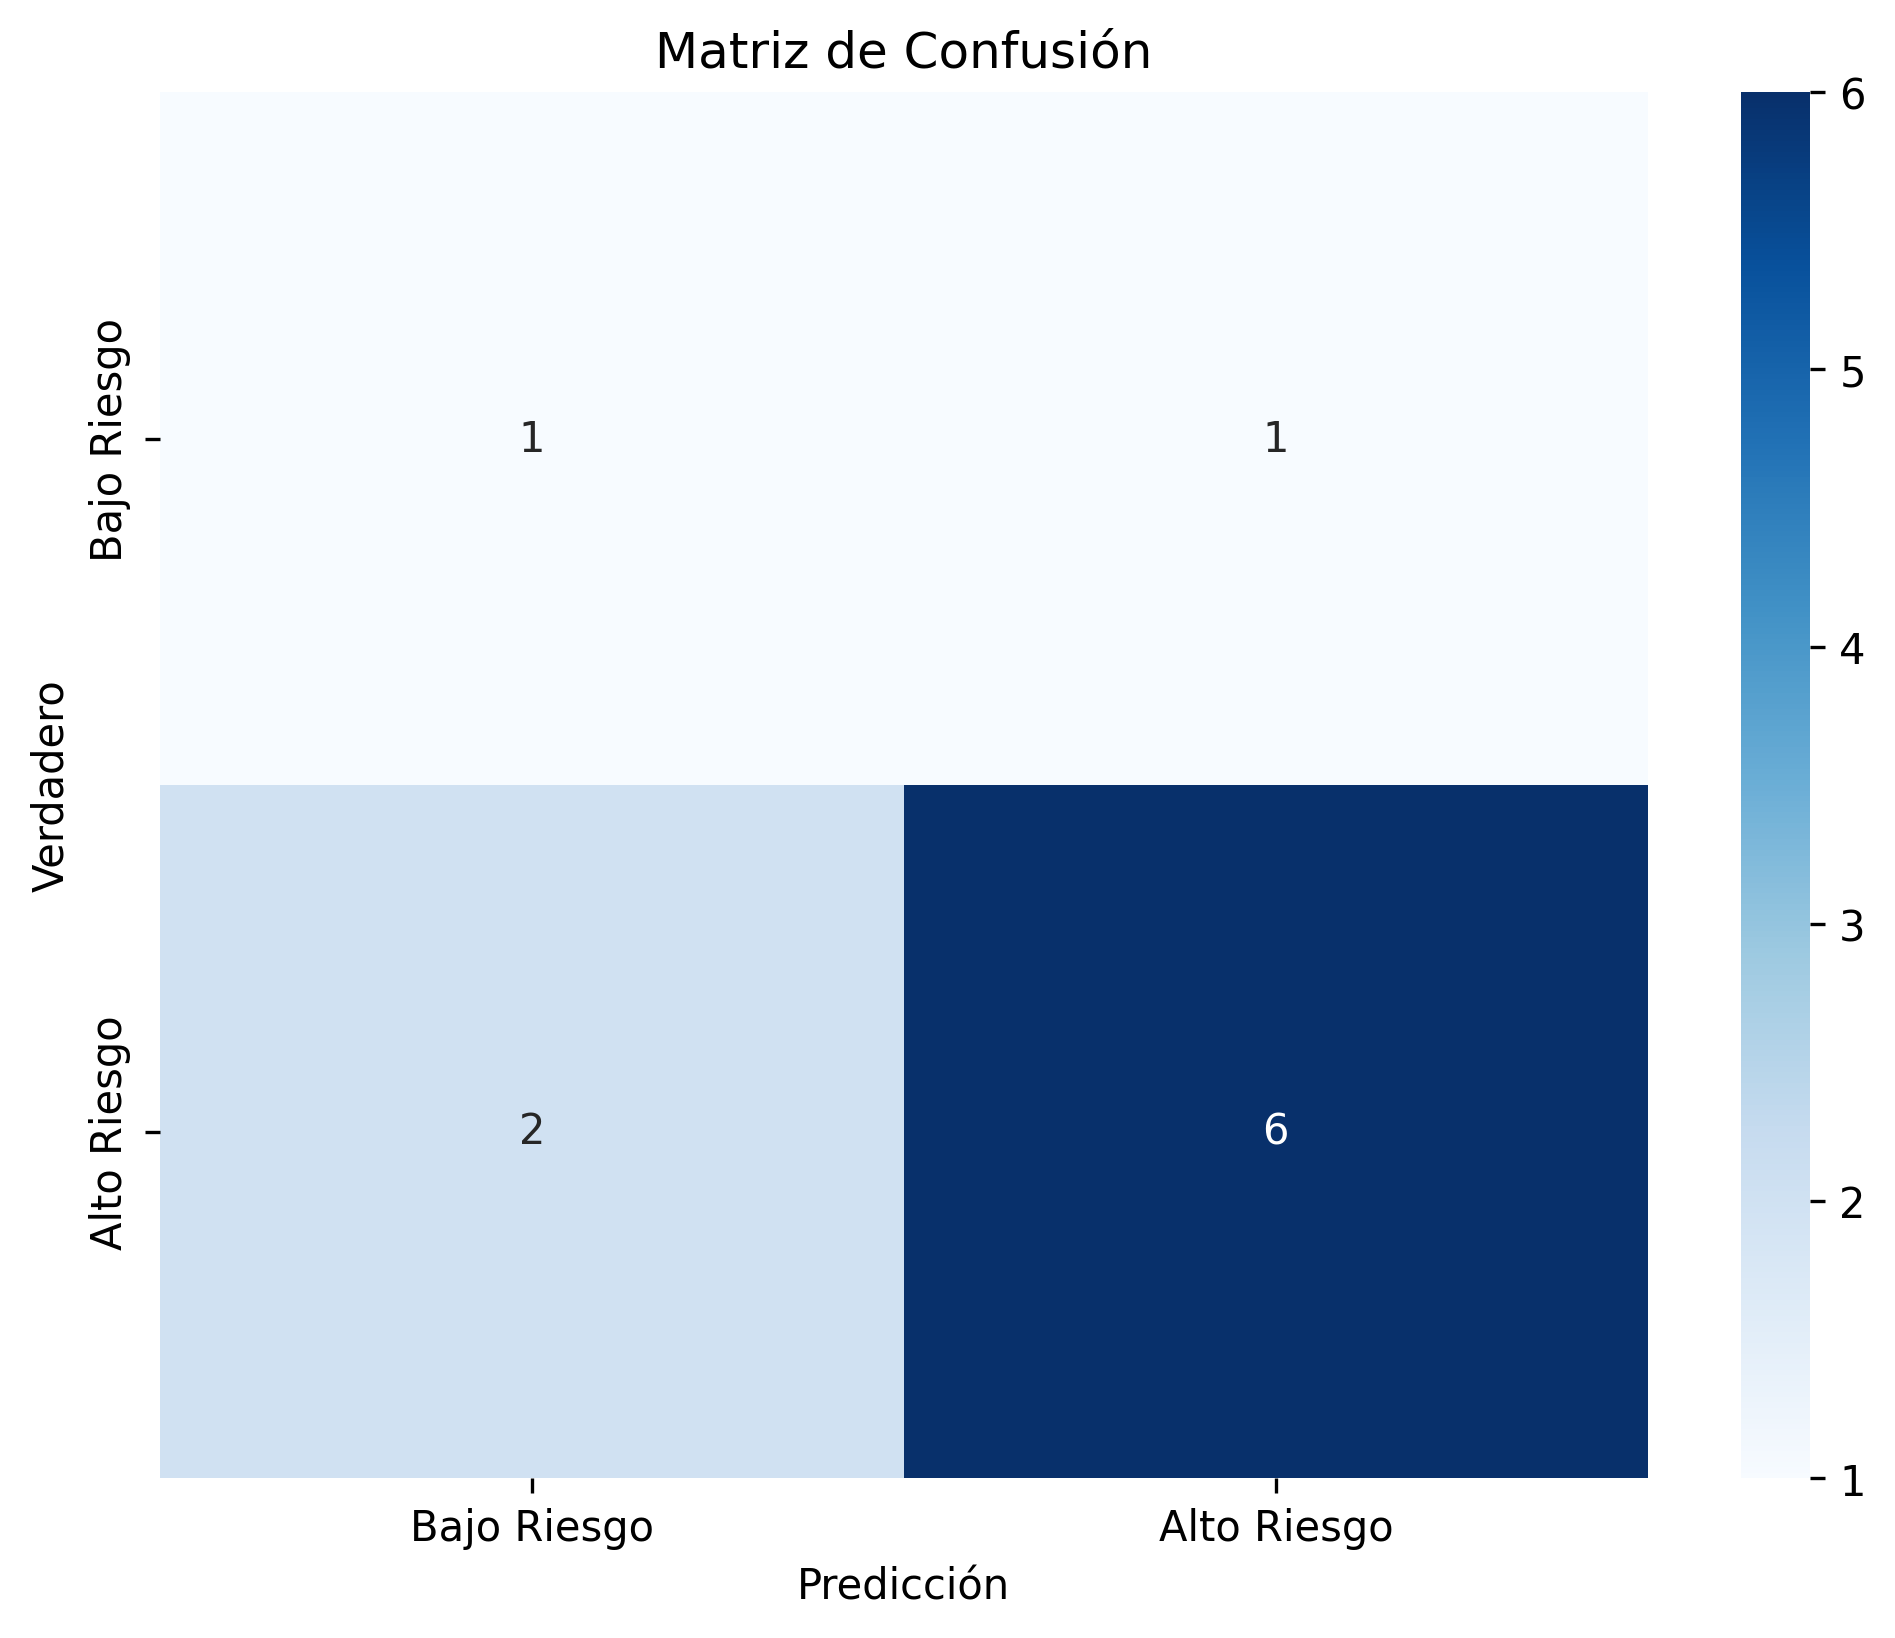
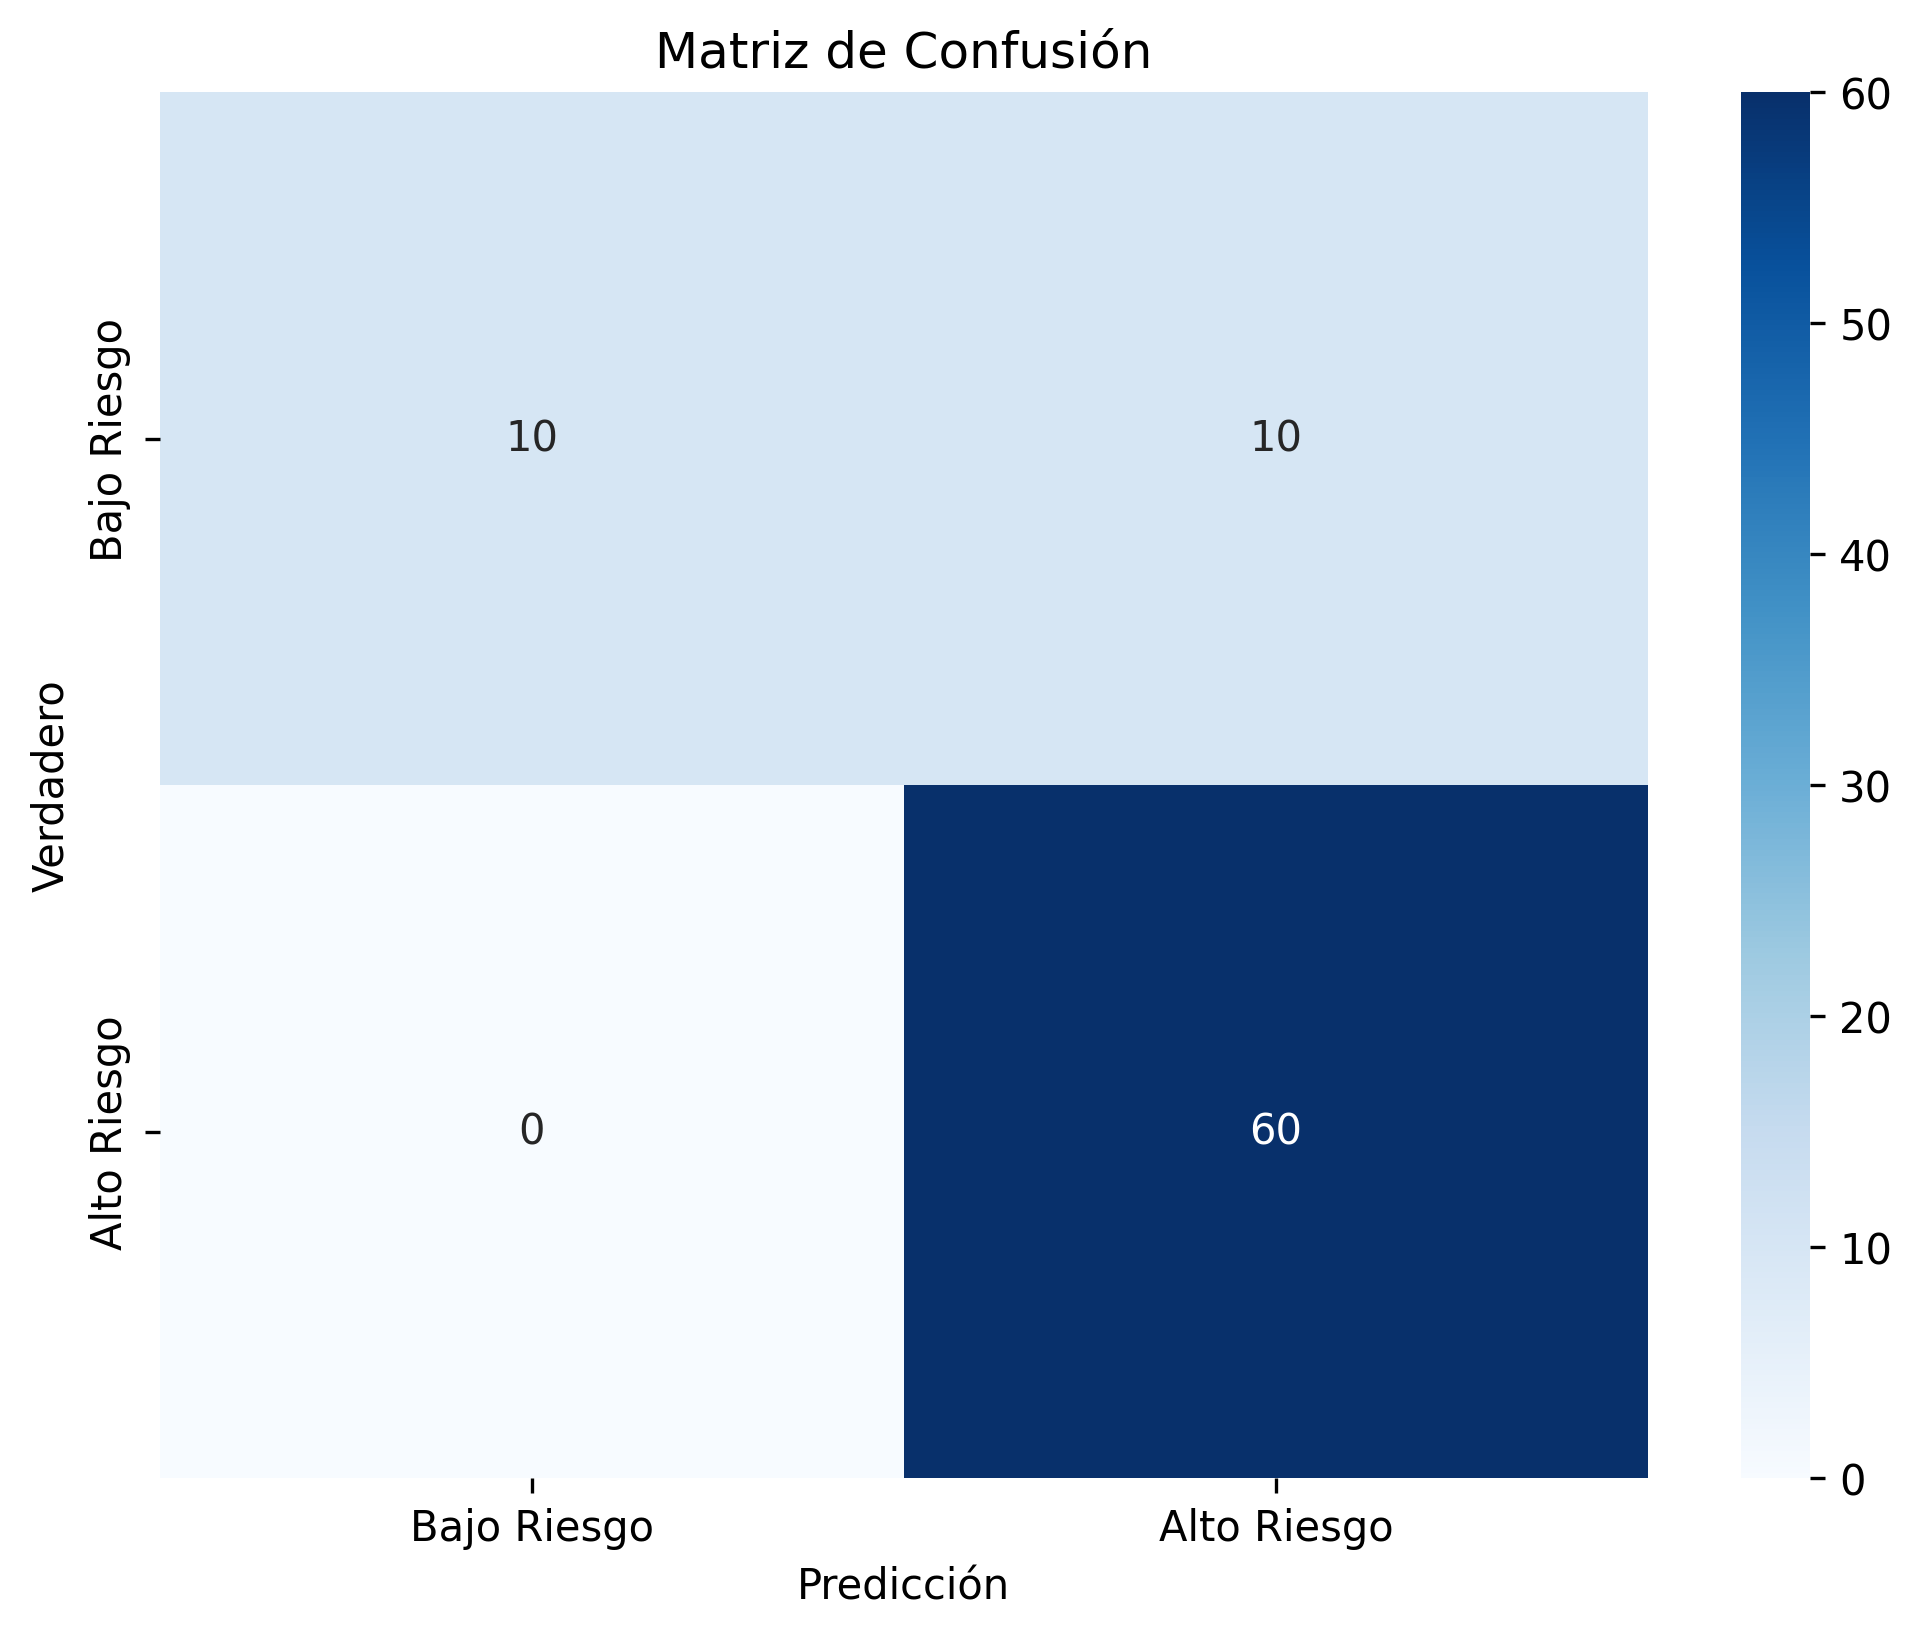
correccion de errores y curva ROC

diff --git a/templates/graficos.html b/templates/graficos.html
@@ -5,6 +5,7 @@
     <meta name="viewport" content="width=device-width, initial-scale=1.0">
     <title>Análisis de Riesgo - Matriz de Confusión</title>
     <link rel="stylesheet" href="{{ url_for('static', filename='style.css') }}">
+    <link rel="stylesheet" href="https://fonts.googleapis.com/css2?family=Material+Symbols+Outlined:opsz,wght,FILL,GRAD@24,400,0,0" />
 </head>
 <body>
     <header>
@@ -15,43 +16,69 @@
     <div class="container">
         <div class="matrix-container">
             <h2>Matriz de Confusión</h2>
-            <p>Visualización del desempeño del modelo de clasificación:</p>
-
-            <!-- Imagen de la matriz con ID 'matrixImage' para manipularla con JavaScript -->
             <img id="matrixImage" class="matrix-img" src="{{ url_for('imagenes_files', filename='matriz_riesgos.png') }}" alt="Matriz">
-            
-            <!-- Controles de zoom con más separación -->
             <div class="zoom-controls">
-                <button onclick="zoomIn()" class="zoom-btn">+ Zoom</button>
-                <button onclick="zoomOut()" class="zoom-btn">- Zoom</button>
-                <button onclick="resetZoom()" class="zoom-btn">Reset</button>
+                <span class="material-symbols-outlined upload-button" onclick="zoomIn(0)">zoom_in</span>
+                <span class="material-symbols-outlined upload-button" onclick="zoomOut(0)">zoom_out</span>
+                <span class="material-symbols-outlined upload-button" onclick="resetZoom(0)">recenter</span>
             </div>
             
-            <a href="../resultados/matriz_riesgos.png" download="matriz_riesgos.png" class="download-btn">
+            <a href="../TP1-pp1/imagenes/matriz_riesgos.png" download="matriz_riesgos.png" class="download-btn">
                 Descargar Matriz
+            </a>
+        
+        </div>
+        <div class="curva-container">
+            <h2>Curva ROC</h2>
+
+            <img id="curvaImage" class="matrix-img" src="{{ url_for('imagenes_files', filename='curva_roc.png') }}" alt="Curva">
+            <div class="zoom-controls">
+                <span class="material-symbols-outlined upload-button" onclick="zoomIn(1)">zoom_in</span>
+                <span class="material-symbols-outlined upload-button" onclick="zoomOut(1)">zoom_out</span>
+                <span class="material-symbols-outlined upload-button" onclick="resetZoom(1)">recenter</span>
+            </div>
+            
+            <a href="../TP1-pp1/imagenes/curva_roc.png" download="curva_roc.png" class="download-btn">
+                Descargar Curva
             </a>
         </div>
     </div>
 
     <script>
-        let currentScale = 1;
-        const matrixImage = document.getElementById('matrixImage'); 
+        let currentScaleM = 1;
+        let currentScaleC = 1;
+        const matrixImage = document.getElementById('matrixImage');
+        const curvaImage = document.getElementById('curvaImage');
     
-        function zoomIn() {
-            currentScale += 0.2;
-            matrixImage.style.transform = `scale(${currentScale})`;
-        }
-    
-        function zoomOut() {
-            if (currentScale > 0.6) {
-                currentScale -= 0.2;
-                matrixImage.style.transform = `scale(${currentScale})`;
+        function zoomIn(i) {
+            if (i == 0) {
+                currentScaleM += 0.2;
+                matrixImage.style.transform = `scale(${currentScaleM})`;
+            } else {
+                currentScaleC += 0.2;
+                curvaImage.style.transform = `scale(${currentScaleC})`;
             }
         }
     
-        function resetZoom() {
-            currentScale = 1;
-            matrixImage.style.transform = 'scale(1)';
+        function zoomOut(i) {
+            if (currentScaleM > 0.6 && i == 0) {
+                currentScaleM -= 0.2;
+                matrixImage.style.transform = `scale(${currentScaleM})`;
+            }
+            if (currentScaleC > 0.6 && i == 1) {
+                currentScaleC -= 0.2;
+                curvaImage.style.transform = `scale(${currentScaleC})`;
+            }
+        }
+    
+        function resetZoom(i) {
+            if (i == 0) {
+                currentScaleM = 1;
+                matrixImage.style.transform = 'scale(1)';
+            } else {
+                currentScaleC = 1;
+                curvaImage.style.transform = 'scale(1)';
+            }
         }
     </script>
 

diff --git a/templates/inicio.html b/templates/inicio.html
@@ -52,22 +52,18 @@
         function cambiarModo() {
             const body = document.body;
             const modoOscuro = body.classList.contains("dark-mode");
-    
-            // Alternar modo
+
             body.classList.toggle("dark-mode", !modoOscuro);
-            localStorage.setItem("modo_oscuro", !modoOscuro);  // Guardar en localStorage
-    
-            // Cambiar iconos de sol y luna
+            localStorage.setItem("modo_oscuro", !modoOscuro);
+
             document.querySelector(".sun").style.display = modoOscuro ? "block" : "none";
             document.querySelector(".moon").style.display = modoOscuro ? "none" : "block";
         }
-    
-        // Aplicar el modo oscuro si está guardado en localStorage
+
         document.addEventListener("DOMContentLoaded", function() {
             const modoOscuro = localStorage.getItem("modo_oscuro") === "true";
             document.body.classList.toggle("dark-mode", modoOscuro);
-    
-            // Configurar icono correcto
+
             document.querySelector(".sun").style.display = modoOscuro ? "none" : "block";
             document.querySelector(".moon").style.display = modoOscuro ? "block" : "none";
         });

diff --git a/templates/index_regresion.html b/templates/index_regresion.html
@@ -79,6 +79,10 @@
                     <a href="{{ url_for('resultados') }}">
                         <span class="material-symbols-outlined upload-button" onclick="generarCSV()">pageview</span>
                     </a>
+
+                    <a href="/graficos">
+                        <span class="material-symbols-outlined upload-button">analytics</span>
+                    </a>   
                 </div>
             </div>
         </div>

diff --git a/static/style.css b/static/style.css
@@ -822,7 +822,7 @@ header {
     transition: transform 0.3s ease-in-out;
     border-radius: 10px;
     border: 3px solid #2c3e50;
-    margin-bottom: 20px; /* Espacio inferior */
+    margin-bottom: 20px;
     animation: zoomIn 1s ease-out;
 }
 

diff --git a/templates/resultados.html b/templates/resultados.html
@@ -78,7 +78,6 @@
         }
 
         function cerrarDetalles() {
-            // Ocultar la barra lateral
             const barraLateral = document.getElementById('barra-lateral');
             barraLateral.style.width = '0';
         }

diff --git a/generar_graficos.py b/generar_graficos.py
@@ -1,5 +1,5 @@
 import matplotlib.pyplot as plt
-from sklearn.metrics import confusion_matrix, ConfusionMatrixDisplay
+from sklearn.metrics import confusion_matrix, roc_curve, auc
 import os
 import seaborn as sns
 
@@ -20,10 +20,27 @@ def guardar_matriz_confusion(y_pred, x_test, y_test, clases=None, nombre_archivo
     plt.ylabel('Verdadero')
     plt.xlabel('Predicción')
 
-    ruta_completa = os.path.join('imagenes', nombre_archivo)
+    ruta_completa = os.path.join('TP1-pp1/imagenes', nombre_archivo)
     plt.savefig(ruta_completa, bbox_inches='tight', dpi=300)
     plt.close()
     
     print(f"Matriz de confusión guardada en '{ruta_completa}'")
     
     return matriz
+
+def guardar_curva_roc(y_pred, y_test, nombre_archivo='curva_roc.png'):
+    fpr, tpr, thresholds = roc_curve(y_test, y_pred)
+    roc_auc = auc(fpr, tpr)
+
+    plt.figure(figsize=(8, 6))
+    plt.plot(fpr, tpr, color='darkorange', lw=2, label=f'Curva ROC (AUC = {roc_auc:.2f})')
+    plt.plot([0, 1], [0, 1], color='navy', lw=2, linestyle='--')
+    plt.xlim([0.0, 1.0])
+    plt.ylim([0.0, 1.05])
+    plt.xlabel('Tasa de Falsos Positivos')
+    plt.ylabel('Tasa de Verdaderos Positivos')
+    plt.title('Curva ROC')
+    plt.legend(loc="lower right")
+    ruta_completa = os.path.join('TP1-pp1/imagenes', nombre_archivo)
+    plt.savefig(ruta_completa, bbox_inches='tight')
+    plt.close()

diff --git a/app.py b/app.py
@@ -14,7 +14,7 @@ from datetime import datetime
 import json
 import csv
 import hashlib
-from generar_graficos import guardar_matriz_confusion
+from generar_graficos import guardar_matriz_confusion, guardar_curva_roc
 
 app = Flask(__name__)
 
@@ -272,6 +272,8 @@ def predecir_modelo_arbol():
     guardar_matriz_confusion(prediccion, x_test_a, y_test_a, 
                          clases=['Bajo Riesgo', 'Alto Riesgo'],
                          nombre_archivo='matriz_riesgos.png')
+    
+    guardar_curva_roc(prediccion, y_test_a, nombre_archivo='curva_roc.png')
 
     return jsonify({
         "precision": precision,
@@ -339,9 +341,11 @@ def predecir_modelo_regresion():
     memoria = recall_score(y_test_r, prediccion, average='binary')
     f1 = f1_score(y_test_r, prediccion, average='binary')
     
-    guardar_matriz_confusion(prediccion, x_test_a, y_test_a, 
+    guardar_matriz_confusion(prediccion, x_test_r, y_test_r, 
                          clases=['Bajo Riesgo', 'Alto Riesgo'],
                          nombre_archivo='matriz_riesgos.png')
+    
+    guardar_curva_roc(prediccion, y_test_r, nombre_archivo='curva_roc.png')
 
     return jsonify({
         "precision": precision,

diff --git a/generar_csv.py b/generar_csv.py
@@ -2,7 +2,7 @@ import pandas as pd
 import random
 import os
 
-n = 50
+n = 400
 data = []
 
 for i in range(1, n + 1):
@@ -11,14 +11,14 @@ for i in range(1, n + 1):
     salario = random.randint(30000, 120000)
     horas_trabajadas = random.randint(30, 70)
     ausencias = random.randint(0, 10)
-    genero = random.choice(["Masculino", "Femenino"]) 
+    genero = random.choice(["Masculino", "Femenino"])
     
     data.append([i, nombre, edad, salario, horas_trabajadas, ausencias, genero])
 
 df = pd.DataFrame(data, columns=["ID", "Nombre", "Edad", "Salario", "Horas_Trabajadas", "Ausencias", "Genero"])
 
 ruta_script = os.path.dirname(os.path.abspath(__file__))
-ruta_archivo = os.path.join(ruta_script, "datos", "empleados.csv")
+ruta_archivo = os.path.join(ruta_script, "uploads", "empleados.csv")
 df.to_csv(ruta_archivo, index=False)
 
 print(f"Archivo CSV generado: {ruta_archivo}")

diff --git a/arbol_decision.py b/arbol_decision.py
@@ -26,7 +26,7 @@ def leer_y_generar_riesgo(datos_csv):
 
     # si la probabilidad calculada antes es mayor a 0.5, es "alto riesgo"
 
-    df["Riesgo"] = np.where(prob_riesgo > 0.52, 1, 0)
+    df["Riesgo"] = np.where(prob_riesgo > 0.48, 1, 0)
 
     df_datos = df[["ID", "Horas_Trabajadas", "Ausencias", "Edad", "Salario"]].copy()
     df_riesgos = df[["ID", "Nombre", "Riesgo"]].copy()

diff --git a/regresion_logistica.py b/regresion_logistica.py
@@ -20,7 +20,7 @@ def leer_y_generar_riesgo(datos_csv):
         0.1 * (df["Salario"] / df["Salario"].max())
     )
 
-    df["Riesgo"] = np.where(prob_riesgo > 0.52, 1, 0)
+    df["Riesgo"] = np.where(prob_riesgo > 0.48, 1, 0)
 
     df_datos = df[["ID", "Horas_Trabajadas", "Ausencias", "Edad", "Salario"]].copy()
     df_riesgos = df[["ID", "Nombre", "Riesgo"]].copy()
